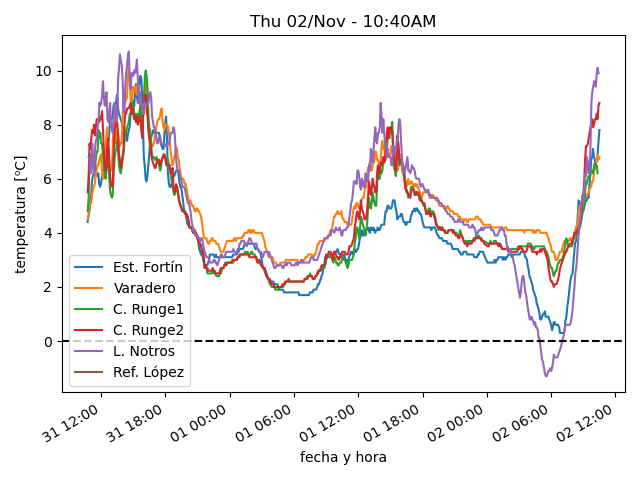
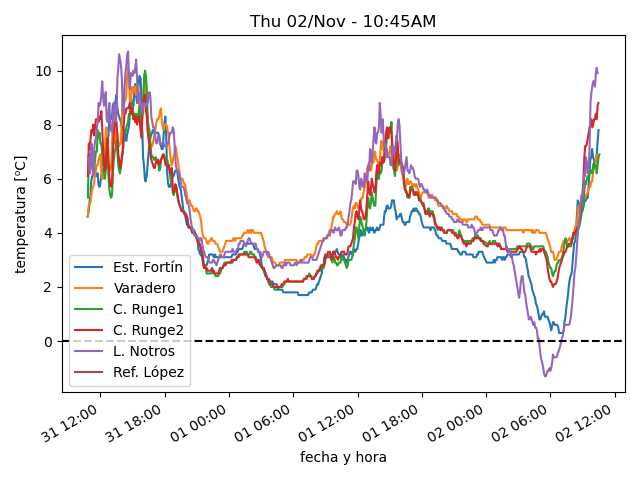
actualiza datos

diff --git a/estaciones/estacion3.html b/estaciones/estacion3.html
@@ -18,22 +18,22 @@
     </tr>
     <tr>
      <td class="stats_data">
-      10:19AM
+      10:34AM
      </td>
     </tr>
     <tr>
      <td class="stats_data">
-      6.2⁰C
+      6.9⁰C
      </td>
     </tr>
     <tr>
      <td class="stats_data">
-      3.2⁰C
+      3.4⁰C
      </td>
     </tr>
     <tr>
      <td class="stats_data">
-      81.3%
+      78.4%
      </td>
     </tr>
     <tr>
@@ -43,7 +43,7 @@
     </tr>
     <tr>
      <td class="stats_data">
-      8.6/11.0 km/hr NNW
+      6.6/9.1 km/hr NW
      </td>
     </tr>
     <tr>
@@ -53,12 +53,12 @@
     </tr>
     <tr>
      <td class="stats_data">
-      8.0
+      9.0
      </td>
     </tr>
     <tr>
      <td class="stats_data">
-      774.8 W/m²
+      832.4 W/m²
      </td>
     </tr>
    </tbody>
